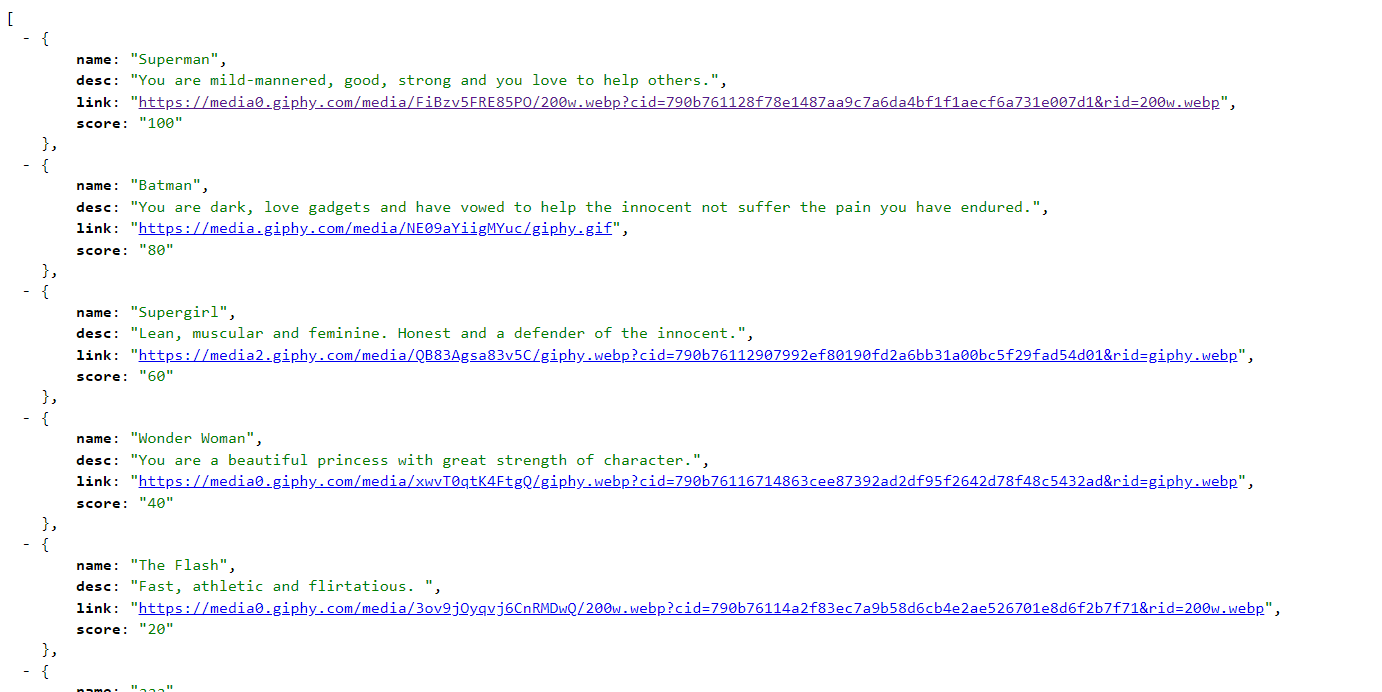
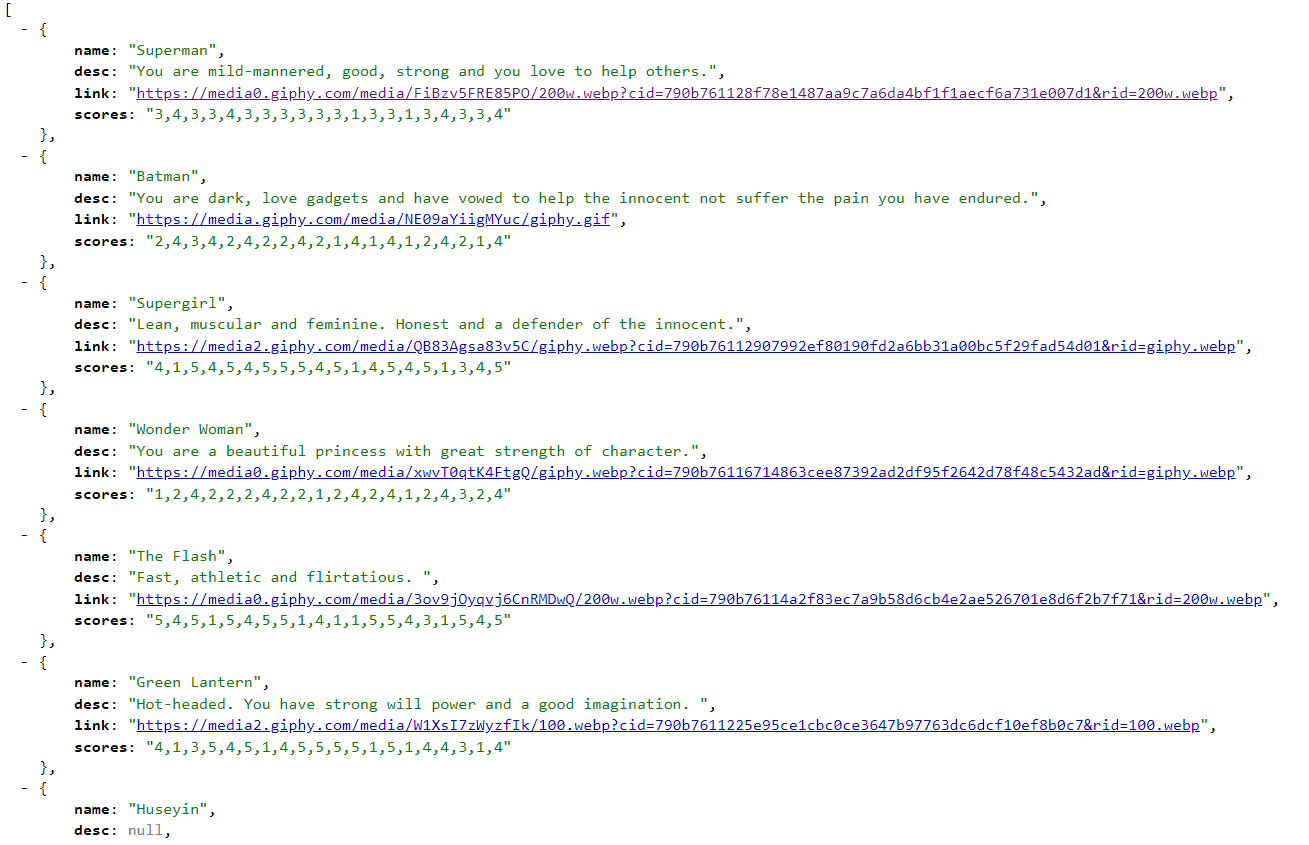
Changed Mysql sheema and querys

Changed region(s): [[0.0306, 0.0303, 0.9778, 0.7587], [0.0306, 0.789, 0.9167, 1.0]]

diff --git a/server.js b/server.js
@@ -38,59 +38,74 @@ app.get("/survey", function(req, res) {
     res.render("survey", { res: response });
   });
 });
-
+ 
 app.post("/api/heroes", function(req, res) {
-  var Name = req.body.h_name;
-  var description = req.body.h_desc;
-  var link = req.body.h_link;
+   var name = req.body.hname;
+  var link = req.body.link;
+  var desc=req.body.description;
   var scores = [
-    // parseInt(req.body.question1),
+     parseInt(req.body.question1),
+     parseInt(req.body.question2),
+     parseInt(req.body.question3),
+     parseInt(req.body.question4),
+     parseInt(req.body.question5),
+     parseInt(req.body.question6),
+     parseInt(req.body.question7),
+     parseInt(req.body.question8),
+     parseInt(req.body.question9),
+     parseInt(req.body.question10),
+     parseInt(req.body.question11),
+     parseInt(req.body.question12),
+     parseInt(req.body.question13),
+     parseInt(req.body.question14),
+     parseInt(req.body.question15),
+     parseInt(req.body.question16),
+     parseInt(req.body.question17),
+     parseInt(req.body.question18),
+     parseInt(req.body.question19),
+     parseInt(req.body.question20),
   ];
 
   connection.query(
     "INSERT INTO heroes(h_name,h_desc, h_link) VALUES (?,?,?)",
-    [Name, description, link],
+    [name,desc, link],
     function(err, res) {
-      Newuser(Name);
+      Newuser(name,link);
     }
   );
   function Newuser(n) {
-    connection.query("SELECT h_id FROM heroes WHERE h_name = ? ", [n], function(
+    connection.query("SELECT h_id FROM heroes WHERE h_name = ? AND h_link=? ", [n,link], function(
       err,
       res
     ) {
-      insert_score(res[0].h_id);
+      insertScores(res[0].h_id);
     });
   }
 
-  function insert_score(num) {
-    connection.query(
-      "INSERT INTO score (h_id,score) VALUES (?,?) ",
-      [num, scores[0]],
-      function(err, res) {
-        match(num);
-      }
-    );
-  }
-
+  function insertScores(num) {
+        connection.query("INSERT INTO scores (q_id, h_id, answer) VALUES (1,?,?), (2,?,?), (3,?,?), (4,?,?), (5,?,?), (6,?,?), (7,?,?), (8,?,?), (9,?,?), (10,?,?), (11,?,?), (12,?,?), (13,?,?), (14,?,?), (15,?,?), (16,?,?), (17,?,?), (18,?,?), (19,?,?), (20,?,?)", [num, scores[0], num, scores[1], num, scores[2], num, scores[3], num, scores[4], num, scores[5], num, scores[6], num, scores[7], num, scores[8], num, scores[9], num, scores[10], num, scores[11], num, scores[12], num, scores[13], num, scores[14], num, scores[15], num, scores[16], num, scores[17], num, scores[18], num, scores[19]], function (err, res) {
+            match(num);
+        });
+    };
   function match(num) {
     connection.query(
-      "SELECT h_name,h_link FROM heroes where h_id='1' ",
+      "SELECT * FROM (SELECT SUM(answer_difference) ans_diff_total, h_id, t2h_id FROM (SELECT q_id, h_id, t2h_id, answer_difference FROM  (SELECT *, ABS(answer-t2answer) AS answer_difference FROM (SELECT * FROM scores s1 LEFT JOIN (SELECT q_id AS t2q_id, h_id AS t2h_id, answer AS t2answer FROM scores s2) t2 ON t2q_id = s1.q_id) t3) t4) t5 GROUP BY t2h_id, h_id) t6 LEFT JOIN heroes  ON t2h_id = heroes.h_id WHERE t6.h_id = ? ORDER BY ans_diff_total ",
       [num],
       function(err, results) {
         res.render("result", {
-          name: results[0]["h_name"],
-          link: results[0]["h_link"]
+          name: results[1]["h_name"],
+          link: results[1]["h_link"],
+          desc:results[1]["h_desc"]
         });
       }
     );
   }
 });
 
-//Showing heroes
+//Showing heroes Api
 app.get("/api/heroes", function(req, res) {
   connection.query(
-    "SELECT h_name,h_desc, h_link, GROUP_CONCAT(score) AS score FROM score  JOIN heroes  USING (h_id) GROUP BY h_id",
+    "SELECT h.h_name,h.h_desc, h.h_link, GROUP_CONCAT(s.answer) AS scores FROM scores s JOIN heroes h USING (h_id) GROUP BY h_id",
     function(err, response) {
       var heroes = [];
       for (var i = 0; i < response.length; i++) {
@@ -98,7 +113,7 @@ app.get("/api/heroes", function(req, res) {
         hero.name = response[i].h_name;
         hero.desc = response[i].h_desc;
         hero.link = response[i].h_link;
-        hero.score = response[i].score;
+        hero.scores = response[i].scores;
         heroes.push(hero);
       }
       res.json(heroes);

diff --git a/README.md b/README.md
@@ -23,3 +23,7 @@ Heroes API
 
 ![alt text](https://github.com/HUSEYINTASCI/Hero-Finder/blob/master/public/3.png)
 
+Result
+
+![alt text](https://github.com/HUSEYINTASCI/Hero-Finder/blob/master/public/result.PNG)
+
